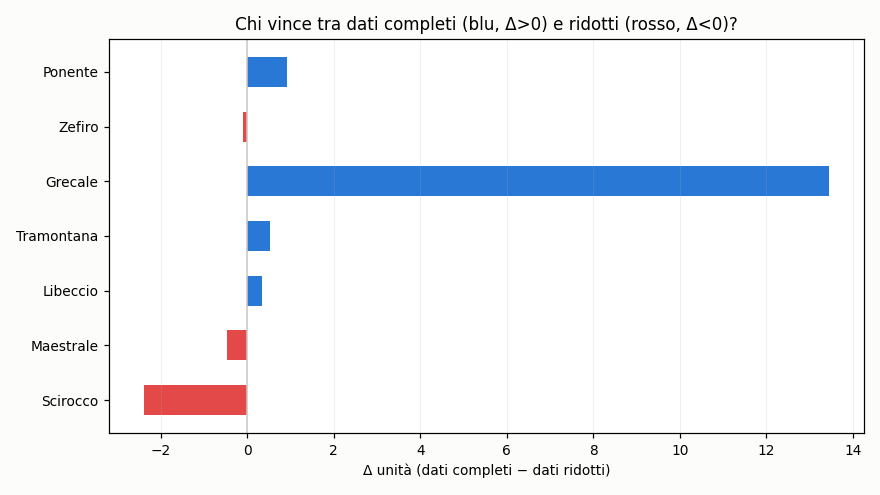
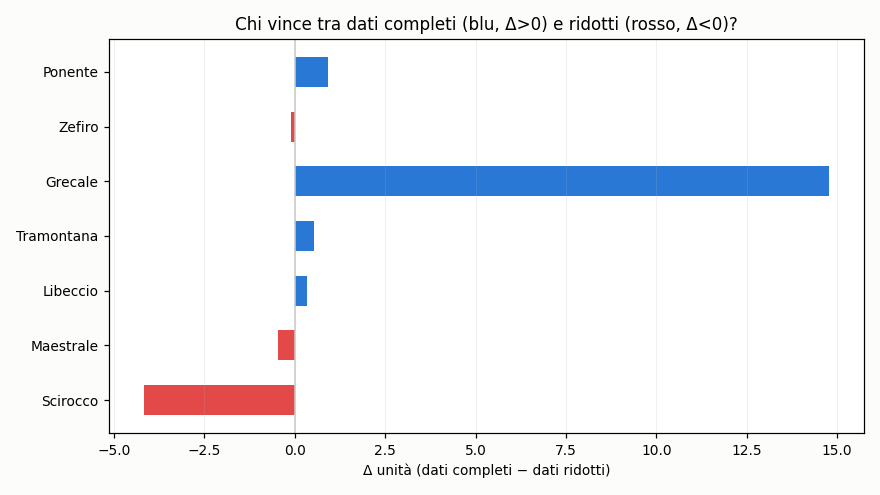
aggiornamento 2026-07-28 20:26 UTC

diff --git a/README.md b/README.md
@@ -37,9 +37,9 @@ scala in unità). Non indichiamo quale.
 
 ## Grafici
 
-![Coppie: dati completi vs ridotti](https://raw.githubusercontent.com/Kitem19/ippica-track-record/main/charts/equity_pairs.png?v=388468ad)
+![Coppie: dati completi vs ridotti](https://raw.githubusercontent.com/Kitem19/ippica-track-record/main/charts/equity_pairs.png?v=0c2a653f)
 
-![Delta per coppia](https://raw.githubusercontent.com/Kitem19/ippica-track-record/main/charts/coppie_delta.png?v=59aafdf9)
+![Delta per coppia](https://raw.githubusercontent.com/Kitem19/ippica-track-record/main/charts/coppie_delta.png?v=d7efb106)
 
 ### Come leggere i grafici
 
@@ -56,11 +56,11 @@ scala in unità). Non indichiamo quale.
 
 _Poche giornate: numeri ancora rumorosi, si conclude a fine fase (31/7)._
 
-- **Scirocco**: dati ridotti avanti di 2,4u — qui gli extra non aiutano
+- **Scirocco**: dati ridotti avanti di 4,2u — qui gli extra non aiutano
 - **Maestrale**: in sostanziale pareggio — troppo presto per dire
 - **Libeccio**: in sostanziale pareggio — troppo presto per dire
 - **Tramontana**: in sostanziale pareggio — troppo presto per dire
-- **Grecale**: dati completi avanti di 13,5u
+- **Grecale**: dati completi avanti di 14,8u
 - **Zefiro**: in sostanziale pareggio — troppo presto per dire
 - **Ponente**: in sostanziale pareggio — troppo presto per dire
 
@@ -68,22 +68,22 @@ _Poche giornate: numeri ancora rumorosi, si conclude a fine fase (31/7)._
 
 | Sistema | Cassa (u) | P/L (u) | Selezioni | Escluse | Stato |
 |---|---|---|---|---|---|
-| Grecale | 13,2 | -6,8 | 350 | 4 | 🟢 |
-| Scirocco-B | 2,3 | -17,7 | 261 | 6 | 🟢 |
-| Maestrale-B | 0,0 | -20,0 | 100 | 284 | 🛑 |
-| Ponente | 0,0 | -20,0 | 213 | 56 | 🛑 |
-| Scirocco | 0,0 | -20,1 | 80 | 307 | 🛑 |
-| Grecale-B | 0,0 | -20,2 | 137 | 199 | 🛑 |
-| Tramontana | 0,0 | -20,3 | 45 | 344 | 🛑 |
-| Zefiro-B | 0,0 | -20,5 | 143 | 97 | 🛑 |
-| Maestrale | 0,0 | -20,5 | 104 | 303 | 🛑 |
-| Zefiro | 0,0 | -20,6 | 268 | 34 | 🛑 |
-| Libeccio | 0,0 | -20,6 | 181 | 209 | 🛑 |
-| Tramontana-B | 0,0 | -20,8 | 324 | 55 | 🛑 |
-| Libeccio-B | 0,0 | -20,9 | 119 | 220 | 🛑 |
-| Ponente-B | 0,0 | -21,0 | 63 | 115 | 🛑 |
+| Grecale | 14,5 | -5,5 | 354 | 4 | 🟢 |
+| Scirocco-B | 4,1 | -15,9 | 264 | 6 | 🟢 |
+| Maestrale-B | 0,0 | -20,0 | 100 | 289 | 🛑 |
+| Ponente | 0,0 | -20,0 | 213 | 59 | 🛑 |
+| Scirocco | 0,0 | -20,1 | 80 | 311 | 🛑 |
+| Grecale-B | 0,0 | -20,2 | 137 | 200 | 🛑 |
+| Tramontana | 0,0 | -20,3 | 45 | 347 | 🛑 |
+| Zefiro-B | 0,0 | -20,5 | 143 | 98 | 🛑 |
+| Maestrale | 0,0 | -20,5 | 104 | 308 | 🛑 |
+| Zefiro | 0,0 | -20,6 | 268 | 35 | 🛑 |
+| Libeccio | 0,0 | -20,6 | 181 | 214 | 🛑 |
+| Tramontana-B | 0,0 | -20,8 | 324 | 60 | 🛑 |
+| Libeccio-B | 0,0 | -20,9 | 119 | 224 | 🛑 |
+| Ponente-B | 0,0 | -21,0 | 63 | 116 | 🛑 |
 
-_Aggiornato: 28/07 20:26_
+_Aggiornato: 28/07 22:26_
 ---
 *Nessuna delle informazioni qui pubblicate costituisce consiglio di gioco.
 Il gioco può causare dipendenza — 18+.*
